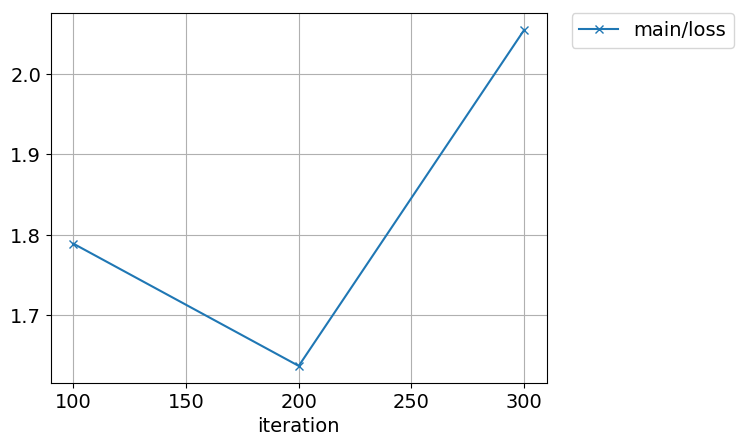
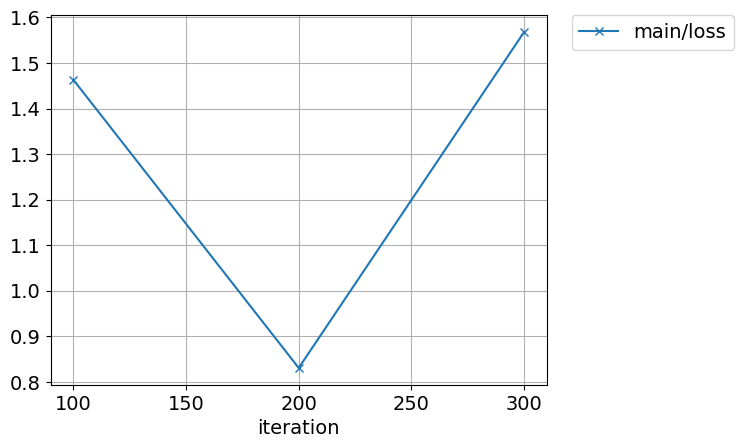
update training script

diff --git a/sample_train.py b/sample_train.py
@@ -67,10 +67,11 @@ def main():
     np.random.seed(0)
     train_data = DefectDetectionDataset(split='train')
     test_data = DefectDetectionDataset(split='test')
-    proposal_params = { 'min_size':8}
+    proposal_params = {'n_train_post_nms': 400, 'n_test_post_nms': 300, 'min_size': 8}
 
-    faster_rcnn = FasterRCNNVGG16(n_fg_class=1, pretrained_model='imagenet',
-                                  min_size=512, max_size=1024, proposal_creator_params=proposal_params)
+    faster_rcnn = FasterRCNNVGG16(n_fg_class=1, pretrained_model='imagenet', ratios=[0.5, 1, 2],
+                                  anchor_scales=[1, 8, 16], min_size=512, max_size=1024,
+                                  proposal_creator_params=proposal_params)
     faster_rcnn.use_preset('evaluate')
     model = FasterRCNNTrainChain(faster_rcnn)
     chainer.cuda.get_device_from_id(0).use()
